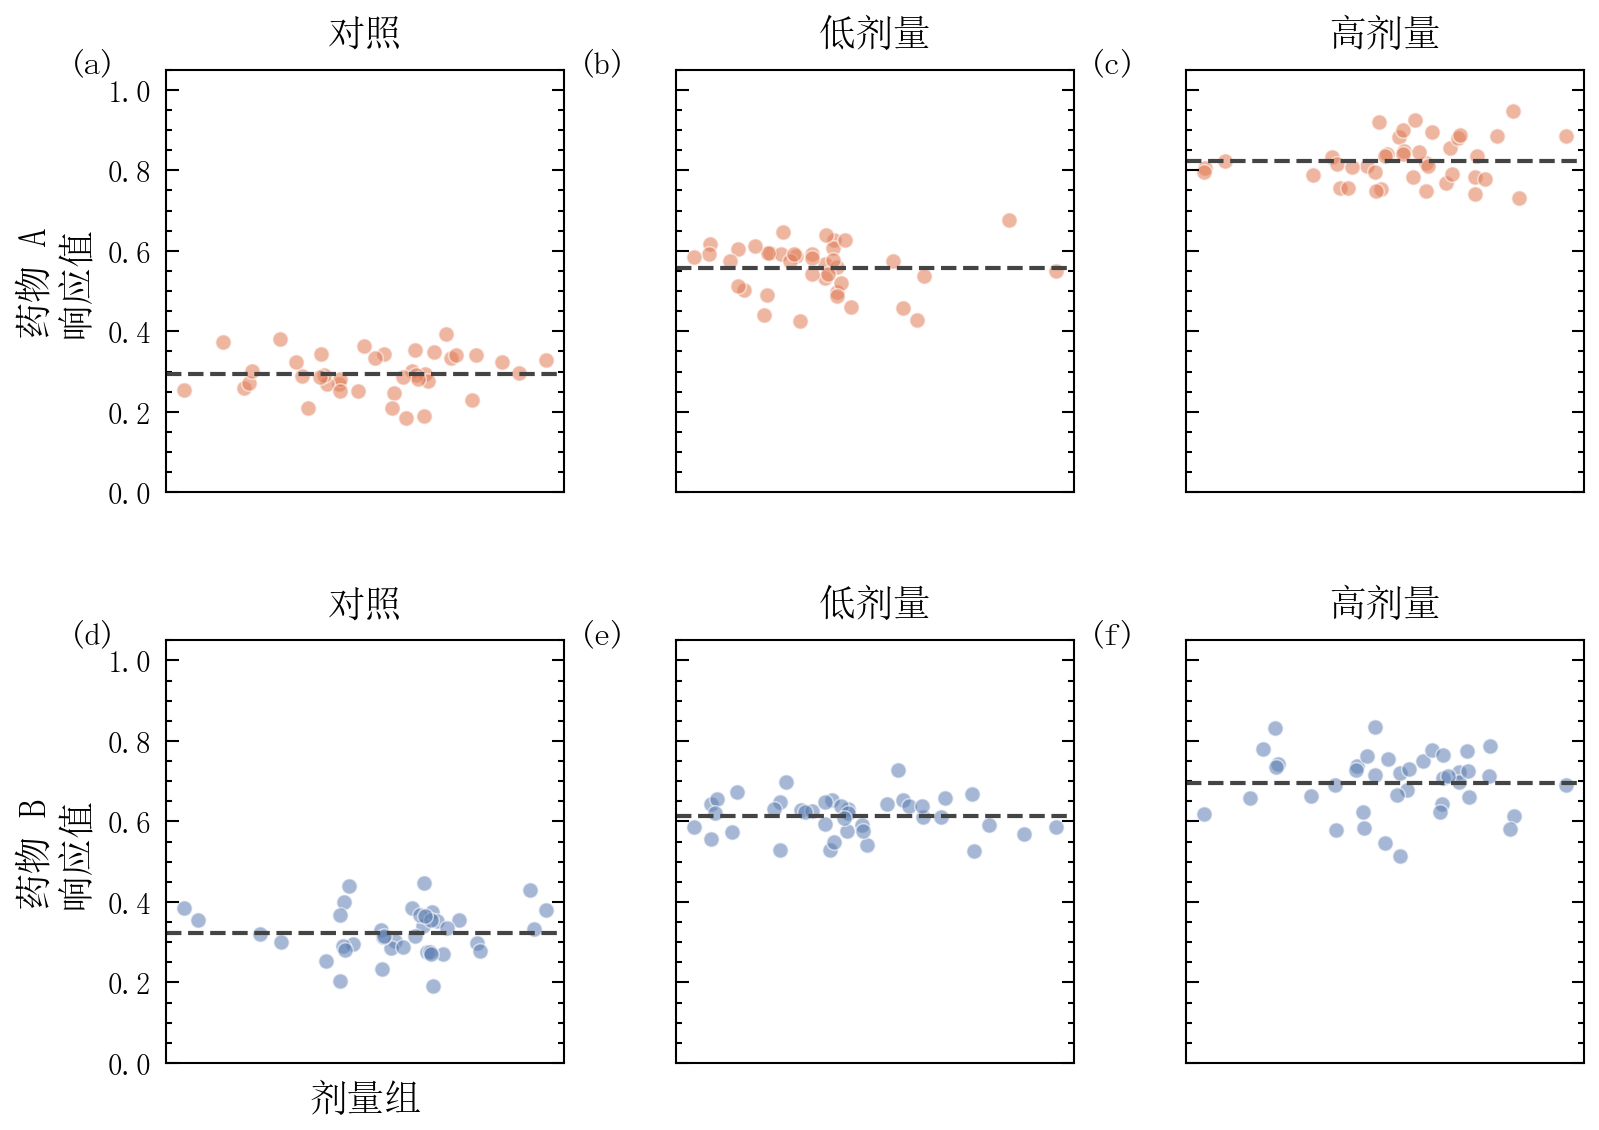
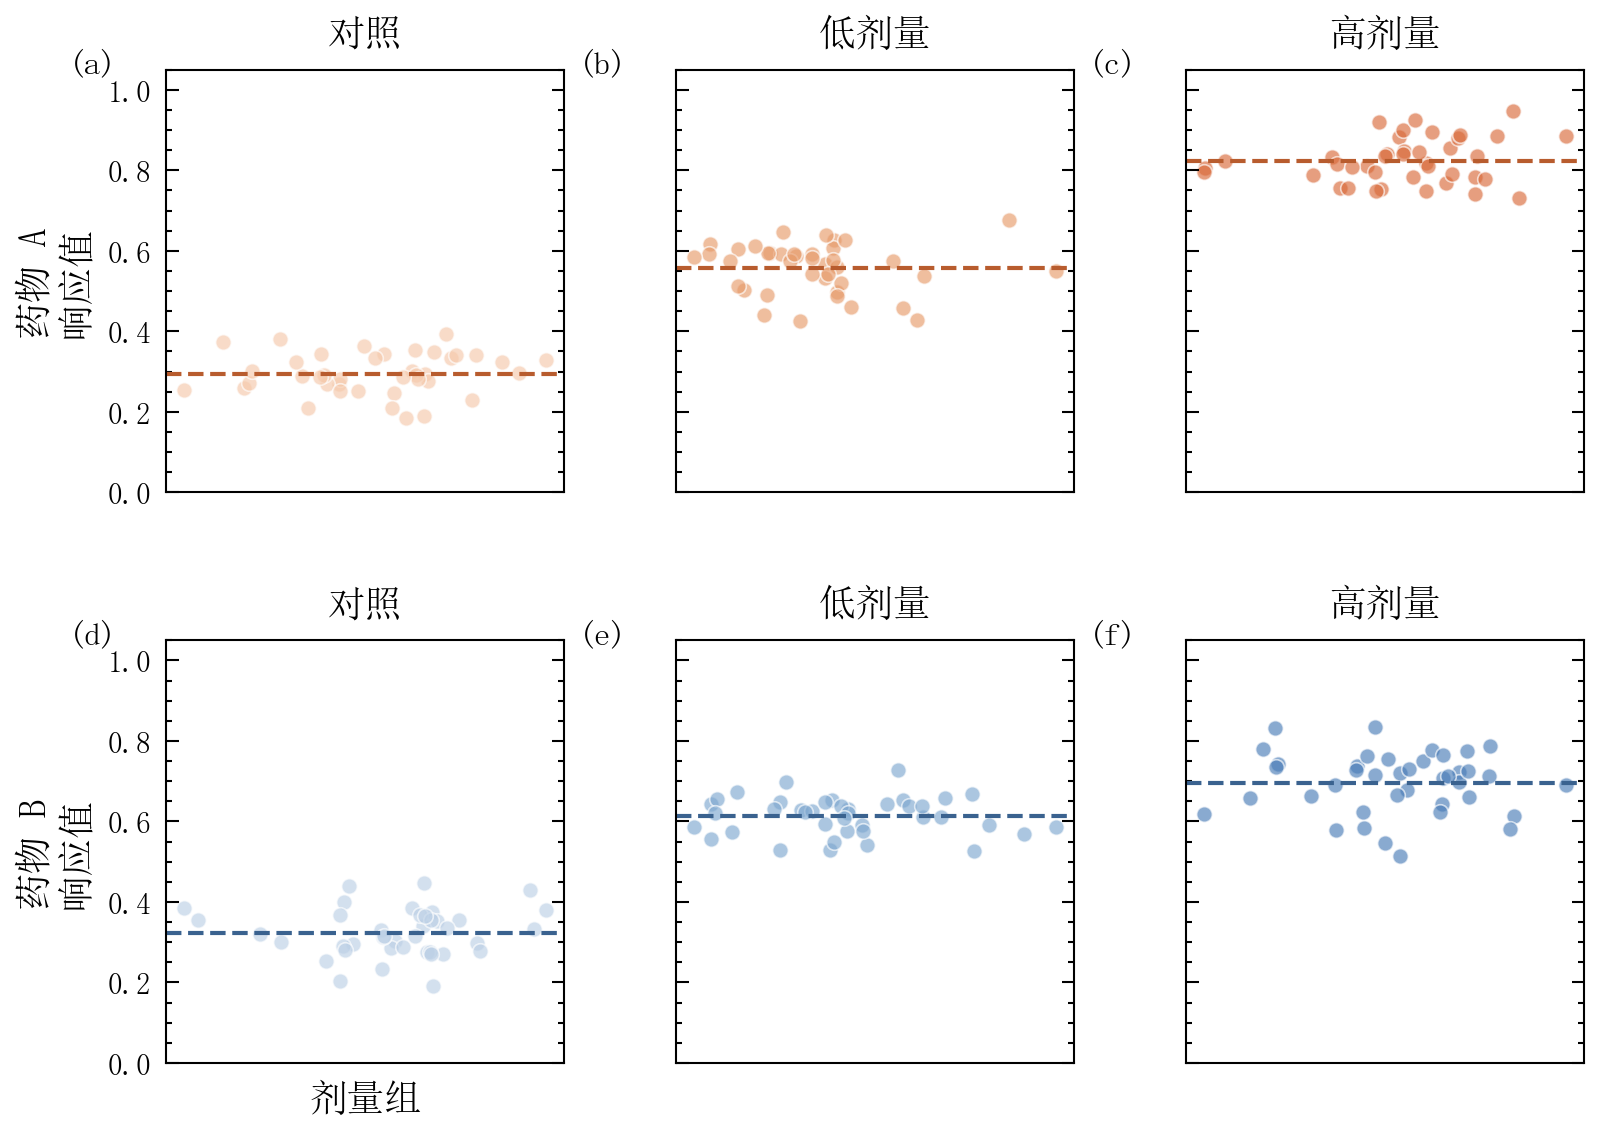
feat: 复合图配色重做 - 34双编码(色相=药物/明度=剂量), 35中性灰蓝vs饱和主色

diff --git a/showcase/35_composite_comparative.py b/showcase/35_composite_comparative.py
@@ -16,29 +16,34 @@ datasets = [f"D{i + 1}" for i in range(8)]
 acc_base = rng.uniform(0.72, 0.86, 8)
 acc_prop = acc_base + rng.uniform(0.04, 0.09, 8)
 
+# 配色：基线=中性灰蓝（低调），方法=饱和主蓝（强调）
+COLOR_BASE = "#A9B7C6"
+COLOR_PROP = "#2E6DA4"
+COLOR_PROP_DARK = "#1F4E79"
+
 # ── 布局：1×2 对照双列 ────────────────────────────────────────
 fig, axes = sp.figure_panels(1, 2, venue="thesis", widths=[1, 1], sharey=True, wspace=0.30)
 
-# 左：基线准确率（浅色柱 + 数值标注）
+# 左：基线准确率（中性灰蓝柱 + 数值标注）
 x = np.arange(len(datasets))
-axes[0].bar(x, acc_base, width=0.62, color="#9DB8D2", edgecolor="white", linewidth=0.6)
+axes[0].bar(x, acc_base, width=0.62, color=COLOR_BASE, edgecolor="white", linewidth=0.6)
 axes[0].set_ylim(0.6, 1.0)
 axes[0].set_xticks(x)
 axes[0].set_xticklabels(datasets, fontsize=7)
 axes[0].set_ylabel("准确率", fontsize=9)
 axes[0].tick_params(direction="in")
-axes[0].set_title("基线模型", fontsize=10)
+axes[0].set_title("基线模型", fontsize=10, color="#4A5560")
 
-# 右：改进方法（深色柱 + 增益标注）
-axes[1].bar(x, acc_prop, width=0.62, color="#3E7CB1", edgecolor="white", linewidth=0.6)
+# 右：改进方法（饱和主色柱 + 增益标注）
+axes[1].bar(x, acc_prop, width=0.62, color=COLOR_PROP, edgecolor="white", linewidth=0.6)
 axes[1].set_ylim(0.6, 1.0)
 axes[1].set_xticks(x)
 axes[1].set_xticklabels(datasets, fontsize=7)
 axes[1].tick_params(direction="in")
-axes[1].set_title("本文方法", fontsize=10)
+axes[1].set_title("本文方法", fontsize=10, color=COLOR_PROP_DARK)
 for xi, (b, p) in enumerate(zip(acc_base, acc_prop)):
     axes[1].text(xi, p + 0.012, f"+{(p - b) * 100:.1f}%",
-                 ha="center", fontsize=6, color="#2C5F8A")
+                 ha="center", fontsize=6, color=COLOR_PROP_DARK)
 
 # ── 保存 ──────────────────────────────────────────────────────
 sp.save(fig, "showcase/35_composite_comparative", formats=("png",), dpi=300)

diff --git a/showcase/34_composite_condition_matrix.py b/showcase/34_composite_condition_matrix.py
@@ -23,7 +23,16 @@ effects = {
     ("药物 B", "低剂量"): rng.normal(0.62, 0.06, 40),
     ("药物 B", "高剂量"): rng.normal(0.70, 0.08, 40),
 }
-colors = {"药物 A": "#E07B54", "药物 B": "#5B7DB1"}
+# 双编码配色：行（药物）= 色相，列（剂量）= 明度梯度
+# 药物 A（暖色系）：浅 → 深；药物 B（冷色系）：浅 → 深
+dose_colors = {
+    ("药物 A", "对照"): "#F5C9AB", ("药物 A", "低剂量"): "#E79B6B", ("药物 A", "高剂量"): "#D96A3A",
+    ("药物 B", "对照"): "#BCD0E6", ("药物 B", "低剂量"): "#7FA8D0", ("药物 B", "高剂量"): "#4A7DB8",
+}
+mean_colors = {
+    ("药物 A", "对照"): "#B85C2E", ("药物 A", "低剂量"): "#B85C2E", ("药物 A", "高剂量"): "#B85C2E",
+    ("药物 B", "对照"): "#3A628F", ("药物 B", "低剂量"): "#3A628F", ("药物 B", "高剂量"): "#3A628F",
+}
 
 # ── 布局：2×3 条件矩阵 ────────────────────────────────────────
 fig, axes = sp.figure_panels(2, 3, venue="thesis", sharey=True, hspace=0.35, wspace=0.28)
@@ -35,8 +44,10 @@ for ax, (i, j) in zip(axes.flat, [(r, c) for r in range(2) for c in range(3)]):
     # 蜂群式抖动散点 + 均值线（面板内 matplotlib 原生）
     x_jitter = rng.normal(0, 0.02, len(data))
     ax.scatter(np.full(len(data), 0) + x_jitter, data,
-               s=14, alpha=0.55, color=colors[drug], edgecolors="white", linewidths=0.4)
-    ax.axhline(float(np.mean(data)), color="#444444", linestyle="--", linewidth=1.0)
+               s=14, alpha=0.65, color=dose_colors[(drug, dose)],
+               edgecolors="white", linewidths=0.4)
+    ax.axhline(float(np.mean(data)), color=mean_colors[(drug, dose)],
+               linestyle="--", linewidth=1.0)
     ax.set_ylim(0.0, 1.05)
     ax.set_xticks([])
     ax.tick_params(direction="in")
